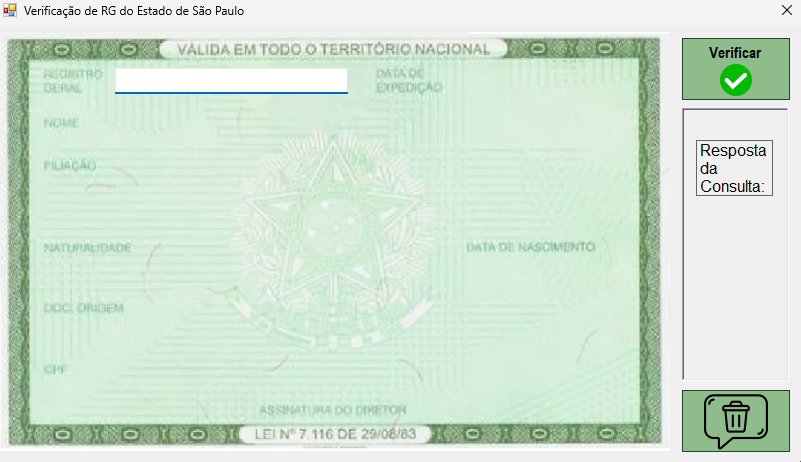
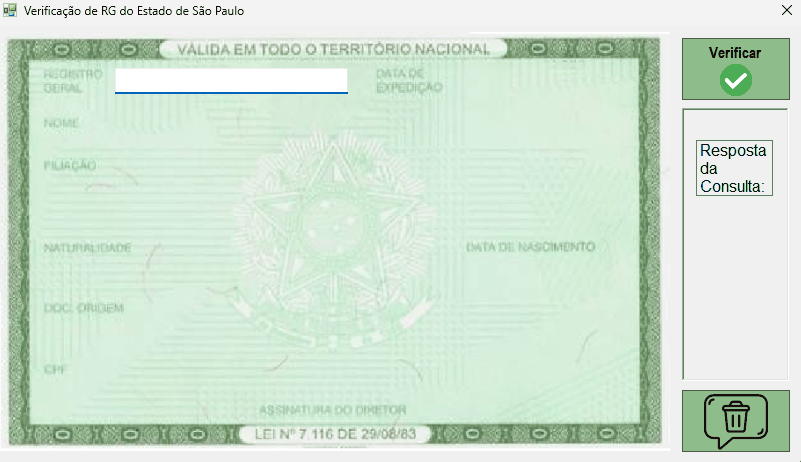
Otimizar imagens e adicionar lazy-load
Redimensiona e recomprime as imagens da pasta images/ (9.97MB -> 1.46MB)
sem perda visual perceptível, usando o menor resultado entre PNG
truecolor e paleta adaptativa para cada arquivo. Adiciona
loading="lazy"/decoding="async" e width/height nas imagens dos cards
de projeto para evitar layout shift, e loading="eager"/fetchpriority="high"
na foto de perfil por estar acima da dobra.

Changed region(s): [[0.8739, 0.303, 0.9675, 0.4242], [0.8739, 0.0909, 0.9363, 0.2121], [0.0, 0.0, 0.0312, 0.0303]]

diff --git a/index.html b/index.html
@@ -39,7 +39,7 @@
       <!-- ====== Sobre ====== -->
       <section id="sobre" class="tela">
         <div class="perfil">
-          <img class="perfil-foto" src="images/IMG_5417.jpg" alt="Foto de perfil">
+          <img class="perfil-foto" src="images/IMG_5417.jpg" alt="Foto de perfil" width="200" height="200" loading="eager" fetchpriority="high" decoding="async">
           <div class="perfil-textos">
             <h1>Maria Fernanda de Almeida Maneira</h1>
             <p class="subtitulo">Desenvolvedora Front-End &amp; Designer iniciante</p>
@@ -74,7 +74,7 @@
         <div class="grid-projetos">
           <article class="projeto-card" data-categorias="eletronica,programacao">
             <figure class="projeto-thumb">
-              <img src="images/ratimbum.jpg" alt="Imagem do Projeto 01">
+              <img src="images/ratimbum.jpg" alt="Imagem do Projeto 01" width="900" height="506" loading="lazy" decoding="async">
             </figure>
             <details class="projeto-accordion">
               <summary class="projeto-info">
@@ -98,7 +98,7 @@
 
           <article class="projeto-card" data-categorias="prototipos">
             <figure class="projeto-thumb">
-              <img src="images/prototype_cinemark.png" alt="Imagem do Projeto 05">
+              <img src="images/prototype_cinemark.png" alt="Imagem do Projeto 05" width="672" height="715" loading="lazy" decoding="async">
             </figure>
             <details class="projeto-accordion">
               <summary class="projeto-info">
@@ -122,7 +122,7 @@
 
           <article class="projeto-card" data-categorias="prototipos">
             <figure class="projeto-thumb">
-              <img src="images/prototype_protfolio.png" alt="Imagem do Projeto 09">
+              <img src="images/prototype_protfolio.png" alt="Imagem do Projeto 09" width="900" height="501" loading="lazy" decoding="async">
             </figure>
             <details class="projeto-accordion">
               <summary class="projeto-info">
@@ -147,7 +147,7 @@
 
           <article class="projeto-card" data-categorias="prototipos">
             <figure class="projeto-thumb">
-              <img src="images/prototype_tcc.png" alt="Imagem do Projeto 12">
+              <img src="images/prototype_tcc.png" alt="Imagem do Projeto 12" width="788" height="592" loading="lazy" decoding="async">
             </figure>
             <details class="projeto-accordion">
               <summary class="projeto-info">
@@ -173,7 +173,7 @@
 
           <article class="projeto-card" data-categorias="design">
             <figure class="projeto-thumb">
-              <img src="images/launching_applewatch.png" alt="Imagem do Projeto 13">
+              <img src="images/launching_applewatch.png" alt="Imagem do Projeto 13" width="900" height="900" loading="lazy" decoding="async">
             </figure>
             <details class="projeto-accordion">
               <summary class="projeto-info">
@@ -196,7 +196,7 @@
 
           <article class="projeto-card" data-categorias="design">
             <figure class="projeto-thumb">
-              <img src="images/online_coding_workshop.png" alt="Imagem do Projeto 14">
+              <img src="images/online_coding_workshop.png" alt="Imagem do Projeto 14" width="900" height="450" loading="lazy" decoding="async">
             </figure>
             <details class="projeto-accordion">
               <summary class="projeto-info">
@@ -219,7 +219,7 @@
 
           <article class="projeto-card" data-categorias="design">
             <figure class="projeto-thumb">
-              <img src="images/techexpo.png" alt="Imagem do Projeto 15">
+              <img src="images/techexpo.png" alt="Imagem do Projeto 15" width="506" height="900" loading="lazy" decoding="async">
             </figure>
             <details class="projeto-accordion">
               <summary class="projeto-info">
@@ -242,7 +242,7 @@
 
           <article class="projeto-card" data-categorias="eletronica,programacao">
             <figure class="projeto-thumb">
-              <img src="images/galao_agua.jpg" alt="Imagem do Projeto 02">
+              <img src="images/galao_agua.jpg" alt="Imagem do Projeto 02" width="831" height="900" loading="lazy" decoding="async">
             </figure>
             <details class="projeto-accordion">
               <summary class="projeto-info">
@@ -264,7 +264,7 @@
 
           <article class="projeto-card" data-categorias="eletronica,programacao">
             <figure class="projeto-thumb">
-              <img src="images/braço_mecanico.jpg" alt="Imagem do Projeto 03">
+              <img src="images/braço_mecanico.jpg" alt="Imagem do Projeto 03" width="900" height="675" loading="lazy" decoding="async">
             </figure>
             <details class="projeto-accordion">
               <summary class="projeto-info">
@@ -286,7 +286,7 @@
 
           <article class="projeto-card" data-categorias="eletronica,programacao">
             <figure class="projeto-thumb">
-              <img src="images/cofre.jpg" alt="Imagem do Projeto 04">
+              <img src="images/cofre.jpg" alt="Imagem do Projeto 04" width="900" height="690" loading="lazy" decoding="async">
             </figure>
             <details class="projeto-accordion">
               <summary class="projeto-info">
@@ -307,7 +307,7 @@
 
           <article class="projeto-card" data-categorias="eletronica,programacao">
             <figure class="projeto-thumb">
-              <img src="images/gigante_mdf.PNG" alt="Imagem do Projeto 16">
+              <img src="images/gigante_mdf.PNG" alt="Imagem do Projeto 16" width="1045" height="997" loading="lazy" decoding="async">
             </figure>
             <details class="projeto-accordion">
               <summary class="projeto-info">
@@ -329,7 +329,7 @@
 
           <article class="projeto-card" data-categorias="programacao">
             <figure class="projeto-thumb">
-              <img src="images/calcResistor.png" alt="Imagem do Projeto 06">
+              <img src="images/calcResistor.png" alt="Imagem do Projeto 06" width="646" height="474" loading="lazy" decoding="async">
             </figure>
             <details class="projeto-accordion">
               <summary class="projeto-info">
@@ -352,7 +352,7 @@
 
           <article class="projeto-card" data-categorias="programacao">
             <figure class="projeto-thumb">
-              <img src="images/calcDesloceVel.png" alt="Imagem do Projeto 07">
+              <img src="images/calcDesloceVel.png" alt="Imagem do Projeto 07" width="805" height="514" loading="lazy" decoding="async">
             </figure>
             <details class="projeto-accordion">
               <summary class="projeto-info">
@@ -374,7 +374,7 @@
 
           <article class="projeto-card" data-categorias="programacao">
             <figure class="projeto-thumb">
-              <img src="images/calcFatrito.png" alt="Imagem do Projeto 08">
+              <img src="images/calcFatrito.png" alt="Imagem do Projeto 08" width="563" height="693" loading="lazy" decoding="async">
             </figure>
             <details class="projeto-accordion">
               <summary class="projeto-info">
@@ -396,7 +396,7 @@
 
           <article class="projeto-card" data-categorias="programacao">
             <figure class="projeto-thumb">
-              <img src="images/vldCartao.png" alt="Imagem do Projeto 10">
+              <img src="images/vldCartao.png" alt="Imagem do Projeto 10" width="647" height="477" loading="lazy" decoding="async">
             </figure>
             <details class="projeto-accordion">
               <summary class="projeto-info">
@@ -418,7 +418,7 @@
 
           <article class="projeto-card" data-categorias="programacao">
             <figure class="projeto-thumb">
-              <img src="images/vldRG.png" alt="Imagem do Projeto 11">
+              <img src="images/vldRG.png" alt="Imagem do Projeto 11" width="801" height="462" loading="lazy" decoding="async">
             </figure>
             <details class="projeto-accordion">
               <summary class="projeto-info">
@@ -440,7 +440,7 @@
 
           <article class="projeto-card" data-categorias="eletronica,programacao">
             <figure class="projeto-thumb">
-              <img src="images/veias.png" alt="Imagem do Projeto 17">
+              <img src="images/veias.png" alt="Imagem do Projeto 17" width="528" height="591" loading="lazy" decoding="async">
             </figure>
             <details class="projeto-accordion">
               <summary class="projeto-info">
